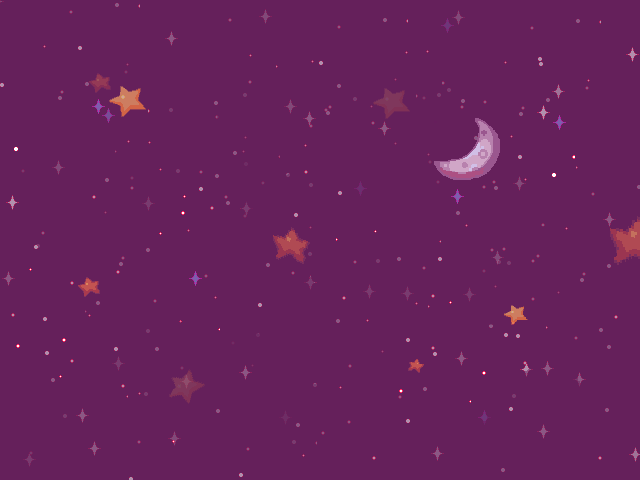
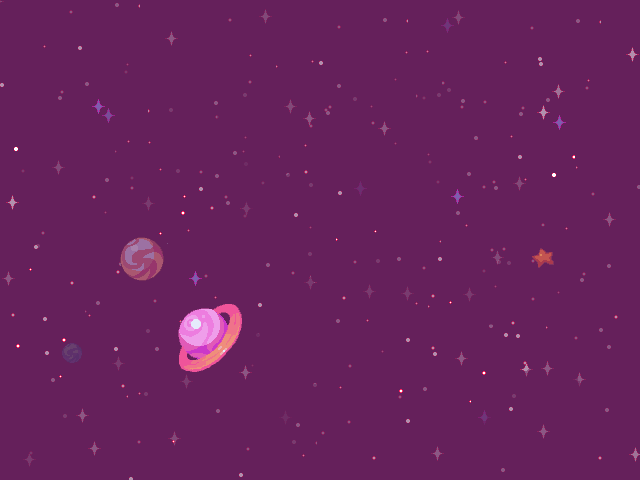
modified Sprite for background, added boundary check for move

diff --git a/src/game/view/Sprite.java b/src/game/view/Sprite.java
@@ -12,11 +12,11 @@ import java.util.List;
 import java.util.Random;
 
 public class Sprite {
-    private static final String PLAYER_PATH = "media/Player";
-    private static final String ENEMY_PATH = "media/Enemy";
-    private static final String ITEM_PATH = "media/Item";
-    private static final String PROJECTILE_PATH = "media/Projectile";
-    private static final String BACKGROUND_PATH = "media/Background";
+    private static final String PLAYER_PATH = "media/Player/";
+    private static final String ENEMY_PATH = "media/Enemy/";
+    private static final String ITEM_PATH = "media/Item/";
+    private static final String PROJECTILE_PATH = "media/Projectile/";
+    private static final String BACKGROUND_PATH = "media/Background/";
 
     private List<Integer> playerSpritIndex;
 
@@ -24,7 +24,7 @@ public class Sprite {
         playerSpritIndex= new ArrayList<>(Arrays.asList(1, 2, 3, 4, 5, 6, 7));
     }
 
-    public BufferedImage loadImage(GameObject obj) {
+    public BufferedImage loadImage(Object obj) {
         try {
             String path = getPath(obj);
             return ImageIO.read(new File(path));
@@ -34,8 +34,10 @@ public class Sprite {
         return null;
     }
 
-    private String getPath(GameObject obj) {
-        if (obj instanceof Player) {
+    private String getPath(Object obj) {
+        if (obj instanceof Game) {
+            return BACKGROUND_PATH + randomInt(1, 8) + ".png";
+        } else if (obj instanceof Player) {
             int index = randomInt(0, playerSpritIndex.size() - 1);
             int value = playerSpritIndex.get(index);
             playerSpritIndex.remove(index);

diff --git a/src/game/model/Player.java b/src/game/model/Player.java
@@ -4,6 +4,7 @@ import game.view.Game;
 import lib.DIRECTION;
 import lib.KEYINPUTTYPE;
 
+import javax.swing.plaf.basic.BasicSplitPaneUI;
 import java.awt.*;
 import java.util.HashMap;
 
@@ -13,7 +14,7 @@ public class Player extends GameObject {
 
         health = 1;
         damage = 1;
-        image = Game.sprit.loadImage(this);
+        image = Game.sprite.loadImage(this);
     }
 
     public Player(int x, int y, String id, int number) {
@@ -53,17 +54,29 @@ public class Player extends GameObject {
 
     private void act() {
         HashMap<KEYINPUTTYPE, Boolean> map = handler.objectStates.get(this);
-        if (map.get(KEYINPUTTYPE.UP))
-           move(DIRECTION.UP);
+        if (map.get(KEYINPUTTYPE.UP)) {
+            if (checkBound(x, y, DIRECTION.UP)) {
+                move(DIRECTION.UP);
+            }
+        }
 
-        if (map.get((KEYINPUTTYPE.DOWN)))
-            move(DIRECTION.DOWN);
+        if (map.get(KEYINPUTTYPE.DOWN)) {
+            if (checkBound(x, y, DIRECTION.DOWN))
+                move(DIRECTION.DOWN);
+        }
 
-        if (map.get((KEYINPUTTYPE.LEFT)))
-            move(DIRECTION.LEFT);
+        if (map.get(KEYINPUTTYPE.LEFT)) {
+            if (checkBound(x, y, DIRECTION.LEFT))
+                move(DIRECTION.LEFT);
+        }
 
-        if (map.get((KEYINPUTTYPE.RIGHT)))
-            move(DIRECTION.RIGHT);
+        if (map.get(KEYINPUTTYPE.RIGHT)) {
+            if (checkBound(x, y, DIRECTION.RIGHT))
+                move(DIRECTION.RIGHT);
+        }
+
+        if (map.get(KEYINPUTTYPE.SHOOT))
+            shoot();
     }
 
     @Override

diff --git a/src/game/model/Enemy.java b/src/game/model/Enemy.java
@@ -6,6 +6,8 @@ import lib.DIRECTION;
 
 import java.awt.*;
 
+import static lib.DIRECTION.DOWN;
+
 public class Enemy extends GameObject {
     public Enemy(int x, int y, String id) {
         super(x,y,id);
@@ -14,7 +16,7 @@ public class Enemy extends GameObject {
         this.health = 1;
         this.damage = 1;
 
-        image = Game.sprit.loadImage(this);
+        image = Game.sprite.loadImage(this);
     }
 
     public Enemy(int x, int y, String id, int number) {
@@ -34,6 +36,23 @@ public class Enemy extends GameObject {
 
     public void shoot(DIRECTION dir) {
         handler.objects.add(new Projectile(x, y, id, damage, dir));
+    }
+
+    @Override
+    public void move(DIRECTION dir){
+        switch (dir) {
+            case UP:
+            case DOWN:
+                if (checkBound(x, y, dir)) {
+                    super.move(dir);
+                } else {
+                    handler.objects.remove(this);
+                }
+                break;
+            default:
+                super.move(dir);
+                x = x % Game.getInstance().getWidth();
+        }
     }
 
     @Override

diff --git a/src/game/view/Game.java b/src/game/view/Game.java
@@ -1,12 +1,8 @@
 package game.view;
 
-import game.model.*;
-
 import javax.swing.*;
 import java.awt.event.ActionEvent;
 import java.awt.event.ActionListener;
-import java.util.ArrayList;
-import java.util.List;
 
 public class Game extends JPanel implements ActionListener {
     private static Game game;
@@ -15,22 +11,14 @@ public class Game extends JPanel implements ActionListener {
     private int height;
     private int width;
 
-    private List<Enemy> enemyList;
-    private List<Player> playerList;
-    private List<Item> itemList;
-    private List<Projectile> projectileList;
-    public static Sprite sprit;
+    public static Sprite sprite;
 
     public Game() {
         name = "ShootingGame";
         height = 800;
         width = 600;
 
-        enemyList = new ArrayList<>();
-        playerList = new ArrayList<>();
-        itemList = new ArrayList<>();
-        projectileList = new ArrayList<>();
-        sprit = new Sprite();
+        sprite = new Sprite();
     }
 
     public static Game getInstance() {

diff --git a/src/game/model/Projectile.java b/src/game/model/Projectile.java
@@ -2,6 +2,7 @@
 package game.model;
 
 
+import ast.Direction;
 import game.view.Game;
 import lib.DIRECTION;
 
@@ -16,7 +17,7 @@ public class Projectile extends GameObject {
         this.damage = damage;
         this.dir = dir;
 
-        image = Game.sprit.loadImage(this);
+        image = Game.sprite.loadImage(this);
 
     }
 
@@ -24,7 +25,7 @@ public class Projectile extends GameObject {
         this(x,y, id, damage, dir);
         this.number = number;
 
-        image = Game.sprit.loadImage(this);
+        image = Game.sprite.loadImage(this);
     }
 
     public int getDamage() { return damage; }
@@ -62,6 +63,14 @@ public class Projectile extends GameObject {
             handler.objects.remove(this);
     }
 
+    @Override
+    public void move(DIRECTION dir) {
+        if (checkBound(x, y, dir)) {
+            super.move(dir);
+        } else {
+            handler.objects.remove(this);
+        }
+    }
 
     @Override
     public void render(Graphics g) {

diff --git a/src/game/model/GameObject.java b/src/game/model/GameObject.java
@@ -2,6 +2,7 @@ package game.model;
 
 import ast.Identifier;
 import game.controller.Handler;
+import game.view.Game;
 import lib.DIRECTION;
 
 import java.awt.*;
@@ -96,4 +97,22 @@ public abstract class GameObject {
         }
     }
 
+    public boolean checkBound(int x, int y, DIRECTION dir) {
+        switch (dir) {
+            case UP:
+                return inBound(x, y - MOVE_CONSTANT);
+            case DOWN:
+                return inBound(x, y + MOVE_CONSTANT);
+            case LEFT:
+                return inBound(x - MOVE_CONSTANT, y);
+            default:
+                return inBound(x + MOVE_CONSTANT, y);
+        }
+
+    }
+
+    public boolean inBound(int x, int y) {
+        Game game = Game.getInstance();
+        return 0 <= x && x <= game.getWidth() && 0 <= y && y <= game.getWidth();
+    }
 }

diff --git a/src/game/model/Item.java b/src/game/model/Item.java
@@ -9,7 +9,7 @@ public class Item extends GameObject {
         super(x,y,id);
         this.number = number;
 
-        image = Game.sprit.loadImage(this);
+        image = Game.sprite.loadImage(this);
 
     }
 
